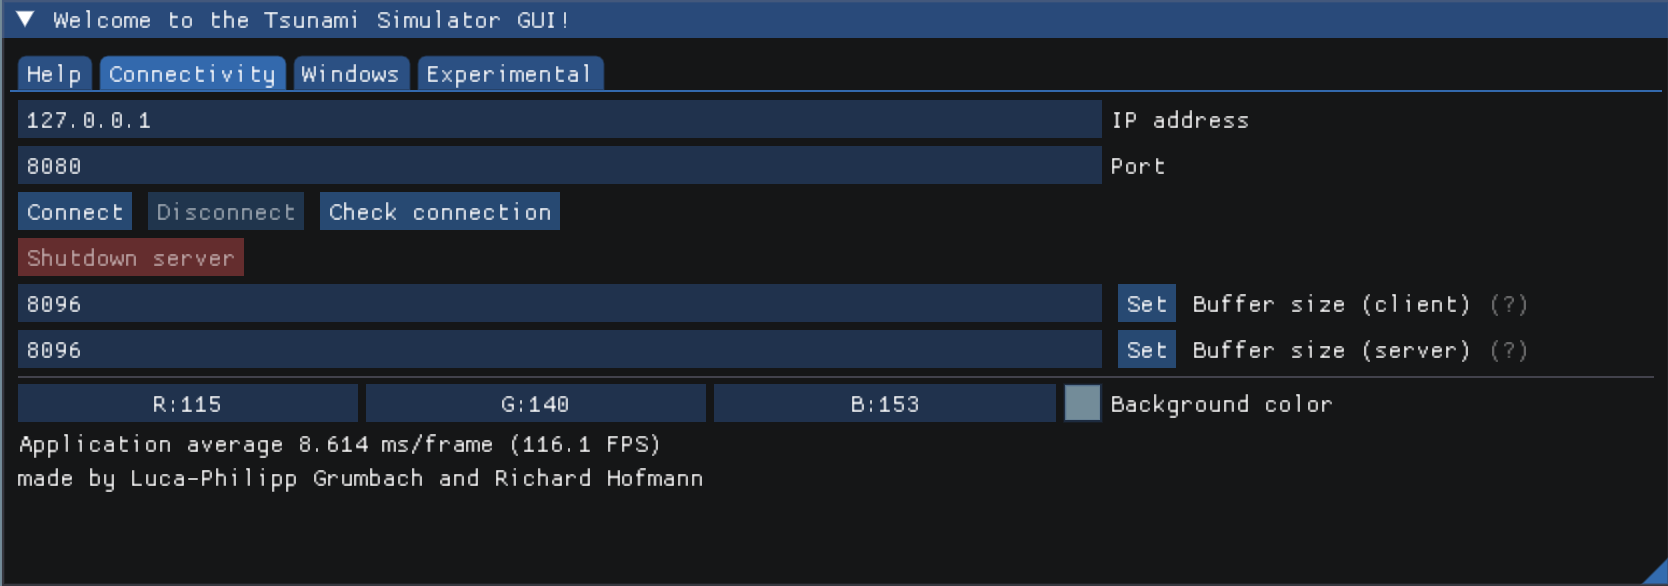
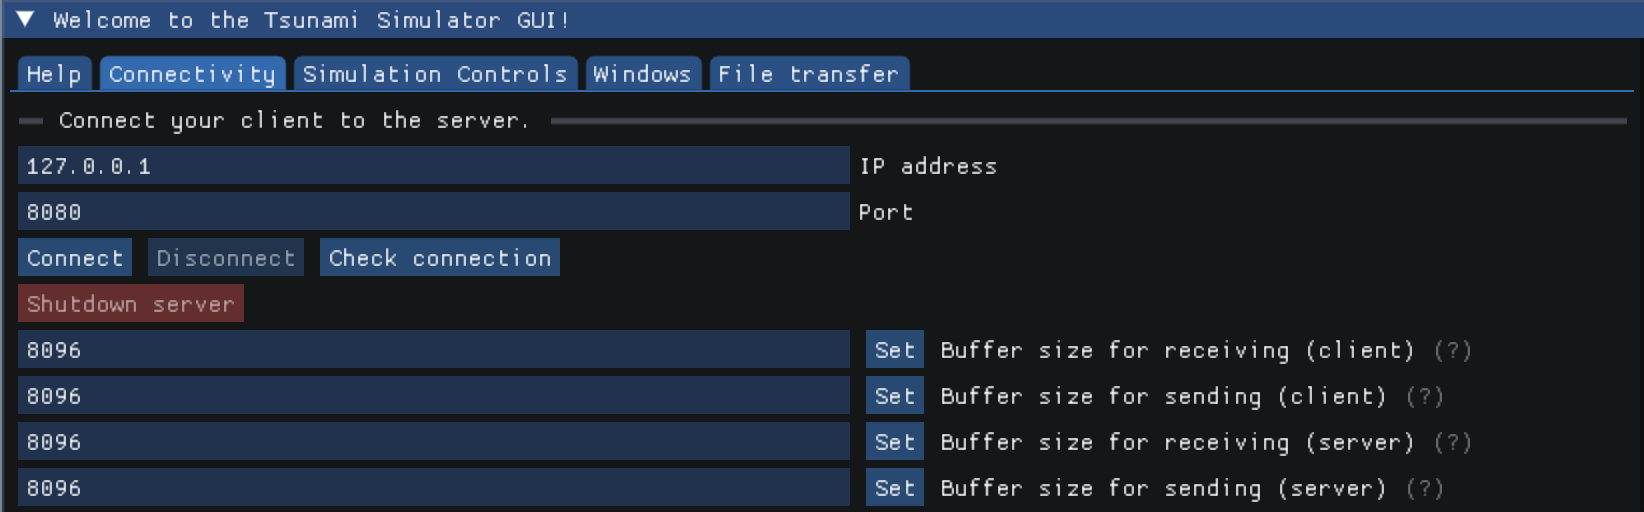
started gui documentation

diff --git a/docs/source/files/assignments/project.rst b/docs/source/files/assignments/project.rst
@@ -30,7 +30,37 @@ All it takes is to send the correct commands to the server by sticking to the AP
 GUI (Client-side)
 *********************
 
-// TODO
+The Gui is desigend to be as instinctively usable as possible. Therefore, we divided the functionality of the GUI into 5 sections, which are represented by the main tabs.
+
+..  image:: ../../_static/assets/task-10-Gui_help.png
+
+The first tab gives some basic information about the project. It furthermore presents a link to the documentation for more details.
+
+..  image:: ../../_static/assets/task-10-Gui_connectivity.png
+
+On this page the user connects the client side GUI with the server. Necessary inputs for the connection are the IP address and the port. 
+The connection can then be opened ore later closed.
+Furthermore, the buffersize for data transfer between server and client can be modified there.
+
+..  image:: ../../_static/assets/task-10-Gui_simulation_controlls.png
+
+The features of this tab focus on the progress of the wave simulation. Firstly, it can be started here and be canceled anytime via "kill simulation".
+In addition to that, the simulation can be stoped and continued in order to modify parameters or compile options, without further computation.
+The last items on this page reset or delete files and data of the former run.
+
+..  image:: ../../_static/assets/task-10-Gui_windows_conf.png
+
+The next tab is divided into two section. The first concludes all options to modify the simulation parameters and the undelying project via compiler options.
+
+
+..  image:: ../../_static/assets/task-10-Gui_windows_obs.png
+
+..  image:: ../../_static/assets/task-10-Gui_file_transfer.png
+
+
+
+
+
 
 *********************
 Server-side
